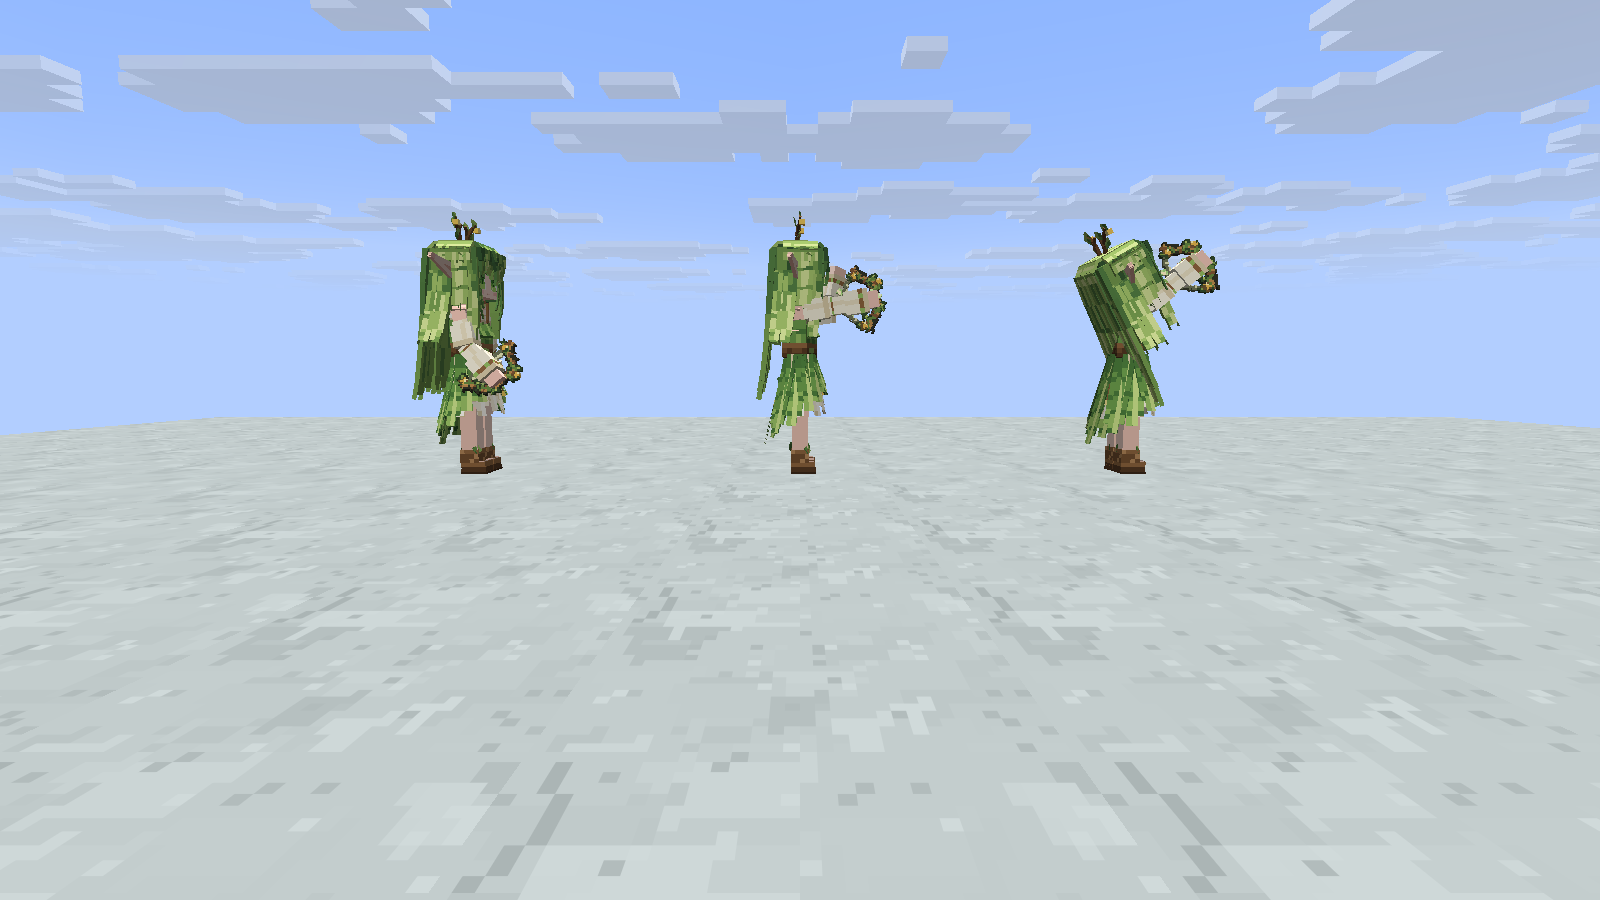
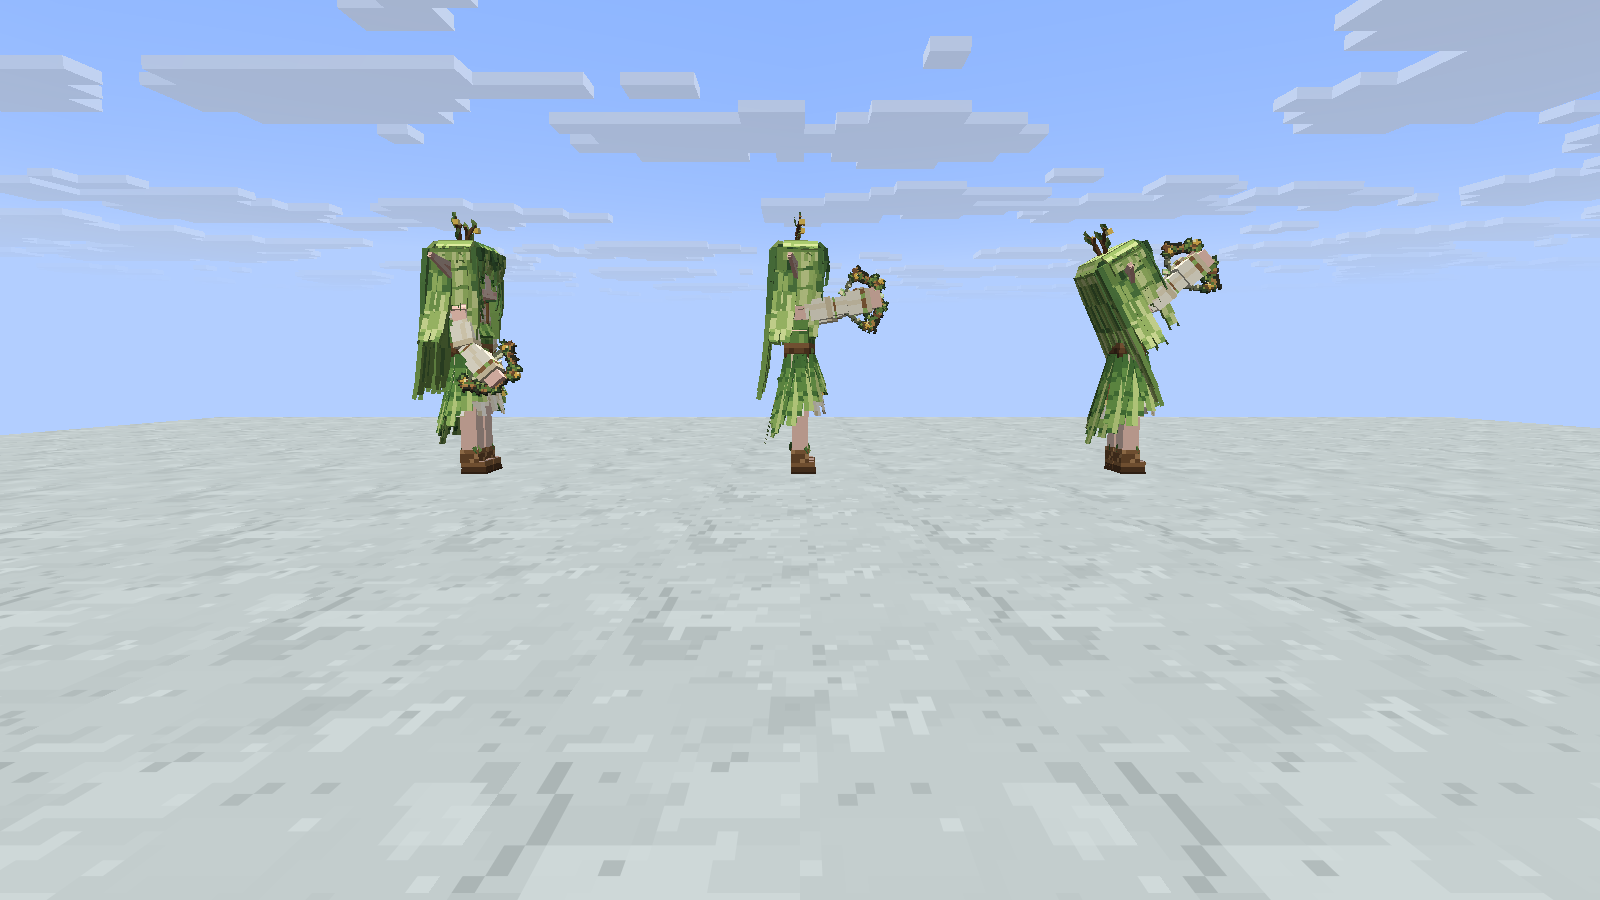
Fix the forest elf bow draw: left hand to the bow, body turns to aim
按试玩反馈参照玩家拉弓修改森林精灵的拉弓姿势。

- 左臂原来向外甩、小臂上折，像是意义不明地举起；改为向内约 34°、小臂微弯，左手伸到弓的位置。
- 视线偏向一侧时原来只有双臂跟着转，最多接近 90° 侧身；改为瞄准时整个人转向视线方向，上身侧转只来自动画（12°）。

验证：单元 89/89；实际客户端拉弓两个场景 2/2、8/8 检查，人工查看截图。

diff --git a/src/main/java/dev/logos/dimension/client/NpcRenderer.java b/src/main/java/dev/logos/dimension/client/NpcRenderer.java
@@ -47,8 +47,10 @@ public class NpcRenderer<T extends Mob & GeoEntity, R extends LivingEntityRender
     public static final float MODEL_SCALE = 0.5f;
     /** 随视线转动的头部骨骼。 */
     public static final String HEAD_BONE = "Head";
-    /** 双臂的共同父骨骼（肩线中点）；瞄准时随视线转动。 */
+    /** 双臂的共同父骨骼（肩线中点）；瞄准时随视线俯仰。 */
     public static final String ARMS_BONE = "Arm";
+    /** 整个身体（不含根骨骼）；瞄准时整个人转向视线的水平方向。 */
+    public static final String BODY_BONE = "AllBody";
     /** 手持物品的挂点骨骼。 */
     public static final String RIGHT_HAND_BONE = "RightHandLocator";
     public static final String LEFT_HAND_BONE = "LeftHandLocator";
@@ -123,7 +125,9 @@ public class NpcRenderer<T extends Mob & GeoEntity, R extends LivingEntityRender
     }
 
     /**
-     * 头部跟随视线：在动画姿势之上叠加俯仰与相对身体的偏航；瞄准时双臂（{@link #ARMS_BONE}）也一样，弓和施法的手指向目标。
+     * 头部跟随视线：在动画姿势之上叠加俯仰与相对身体的偏航。
+     * 瞄准时整个人（{@link #BODY_BONE}）转向视线的水平方向、头不再单独偏转，双臂（{@link #ARMS_BONE}）跟着俯仰，
+     * 弓和施法的手指向目标；身体的侧转只来自动画本身（拉弓时上身侧转不超过 45°）。
      * 发光骨骼：常规绘制里跳过它自身的方块，改由 {@link #submitGlow} 以满亮度补画；被动画隐藏的保持隐藏。
      */
     @Override
@@ -132,14 +136,15 @@ public class NpcRenderer<T extends Mob & GeoEntity, R extends LivingEntityRender
         R state = info.renderState();
         // 原版俯仰向下为正，GeckoLib 骨骼绕 X 轴为正时朝前的部分向上抬，所以取反
         // 死亡动画自己摆头，不再叠加视线
+        boolean aiming = info.getOrDefaultGeckolibData(AIMING, false);
         if (!info.getOrDefaultGeckolibData(ANIMATED_DEATH, false)) snapshots.ifPresent(HEAD_BONE, head -> {
             head.setRotX(head.getRotX() - state.xRot * Mth.DEG_TO_RAD);
-            head.setRotY(head.getRotY() + state.yRot * Mth.DEG_TO_RAD);
+            if (!aiming) head.setRotY(head.getRotY() + state.yRot * Mth.DEG_TO_RAD);
         });
-        if (info.getOrDefaultGeckolibData(AIMING, false)) snapshots.ifPresent(ARMS_BONE, arms -> {
-            arms.setRotX(arms.getRotX() - state.xRot * Mth.DEG_TO_RAD);
-            arms.setRotY(arms.getRotY() + state.yRot * Mth.DEG_TO_RAD);
-        });
+        if (aiming) {
+            snapshots.ifPresent(BODY_BONE, body -> body.setRotY(body.getRotY() + state.yRot * Mth.DEG_TO_RAD));
+            snapshots.ifPresent(ARMS_BONE, arms -> arms.setRotX(arms.getRotX() - state.xRot * Mth.DEG_TO_RAD));
+        }
         // 没选中的零件：整组连同子骨骼都不画
         Set<String> hidden = info.getOrDefaultGeckolibData(HIDDEN_PARTS, Set.of());
         for (String group : hidden) snapshots.ifPresent(group, s -> s.skipRender(true).skipChildrenRender(true));

diff --git a/tools/forest_elf_animations.py b/tools/forest_elf_animations.py
@@ -115,15 +115,18 @@ def drawn():
         "RightArm": {0: [-14, 0, -6], 2: [-14, 0, -6]},
         "RightForeArm": {0: [-28, 0, 0], 2: [-28, 0, 0]},
     }, loop=True)
-    # 拉弓：0.35 秒举弓搭箭，1.2 秒拉满（精灵 24 刻满弦），停在最后一帧。
-    # 上身侧转，头和弓臂反向转回同样的角度，视线与弓仍朝正前（再由渲染器转向目标）
+    # 拉弓：0.35 秒举弓搭箭，1.2 秒拉满（精灵 24 刻满弦），停在最后一帧。参照玩家拉弓：
+    # 弓臂（右手）笔直向前，左手向内伸到弓的位置、小臂稍弯拉弦；上身只微微侧转（远小于 45°），
+    # 头和弓臂反向转回同样的角度，视线与弓仍朝正前。转向目标由渲染器把整个人转过去。
     a["use_mainhand:bow"] = pose(1.2, {
-        "UpBody": {0: [0, 0, 0], 0.35: [0, 12, 0], 1.2: [0, 22, 0]},
-        "Head": {0: [0, 0, 0], 0.35: [0, -12, 0], 1.2: [0, -22, 0]},
-        "RightArm": {0: [-20, 0, -8], 0.35: [-100, -10, R_FWD], 1.2: [-100, -22, R_FWD]},
+        "UpBody": {0: [0, 0, 0], 0.35: [0, 8, 0], 1.2: [0, 12, 0]},
+        "Head": {0: [0, 0, 0], 0.35: [0, -8, 0], 1.2: [0, -12, 0]},
+        "RightArm": {0: [-20, 0, -8], 0.35: [-100, -8, R_FWD], 1.2: [-100, -12, R_FWD]},
         "RightForeArm": {0: [-20, 0, 0], 0.35: [0, 0, 0], 1.2: [0, 0, 0]},
-        "LeftArm": {0: [-20, 0, 8], 0.35: [-98, -45, L_FWD], 1.2: [-98, -62, L_FWD]},
-        "LeftForeArm": {0: [-30, 0, 0], 0.35: [-30, 0, 0], 1.2: [-115, 0, 0]},
+        # 两肩相距约 8 单位、整条手臂约 15 单位：左手要向内约 34° 才够到弓，上身侧转已经转了 12°。
+        # 左臂 y 为正是向内（为负会向外甩开）
+        "LeftArm": {0: [-20, 0, 8], 0.35: [-98, 18, L_FWD], 1.2: [-97, 22, L_FWD]},
+        "LeftForeArm": {0: [-30, 0, 0], 0.35: [-6, 0, 0], 1.2: [-12, 0, 0]},
     }, loop="hold_on_last_frame")
     # 抚生之触：左手（右手拿弓）掌心朝前伸出，停一下再收回
     a["heal_touch"] = pose(0.8, {

diff --git a/VERIFICATION.md b/VERIFICATION.md
@@ -2,7 +2,15 @@
 
 目标环境：Minecraft 26.1.2、NeoForge 26.1.2.112、Java 25；Logos 0.5.1，主模组源码基线 `f196960`。当前开发安装包为 0.11.0。原炼金维度不包含建筑或 Boss；远行大陆包含中世纪聚落、精灵森林与世界树，不包含 Boss。
 
-## 森林精灵死亡动画与挂泪表情
+## 森林精灵拉弓姿势修正
+
+2026-10-27：分支 `fix/forest-elf-bow-pose`，按实际试玩反馈参照玩家拉弓修改。
+
+- **左手**：原来左臂向外甩、小臂向上折，看起来是意义不明地举起；现在左臂向内约 34°（含上身 12° 侧转）、小臂微弯，左手伸到弓的位置。动画里左臂 y 为正是向内。
+- **侧身**：原来视线偏向一侧时只有双臂跟着转（最多约 75°，加上动画侧转接近 90°）；现在瞄准时整个人转向视线方向，上身侧转只来自动画（12°，远小于 45°）。施法伸手（抚生之触）同样适用。
+
+验证：单元 89/89；实际客户端 `npc_forest_elf_bow`、`npc_forest_elf_bow_side` 2/2 场景、8/8 检查，人工查看 3/4、侧面截图，并临时把镜头放到正上方确认两手在弓的位置会合（这张俯视图没有保存进仓库）。更新 `forest-elf-bow.png`、`forest-elf-bow-side.png`。没有在实战中查看。
+
 
 2026-10-27：分支 `feat/forest-elf-death`。
 
